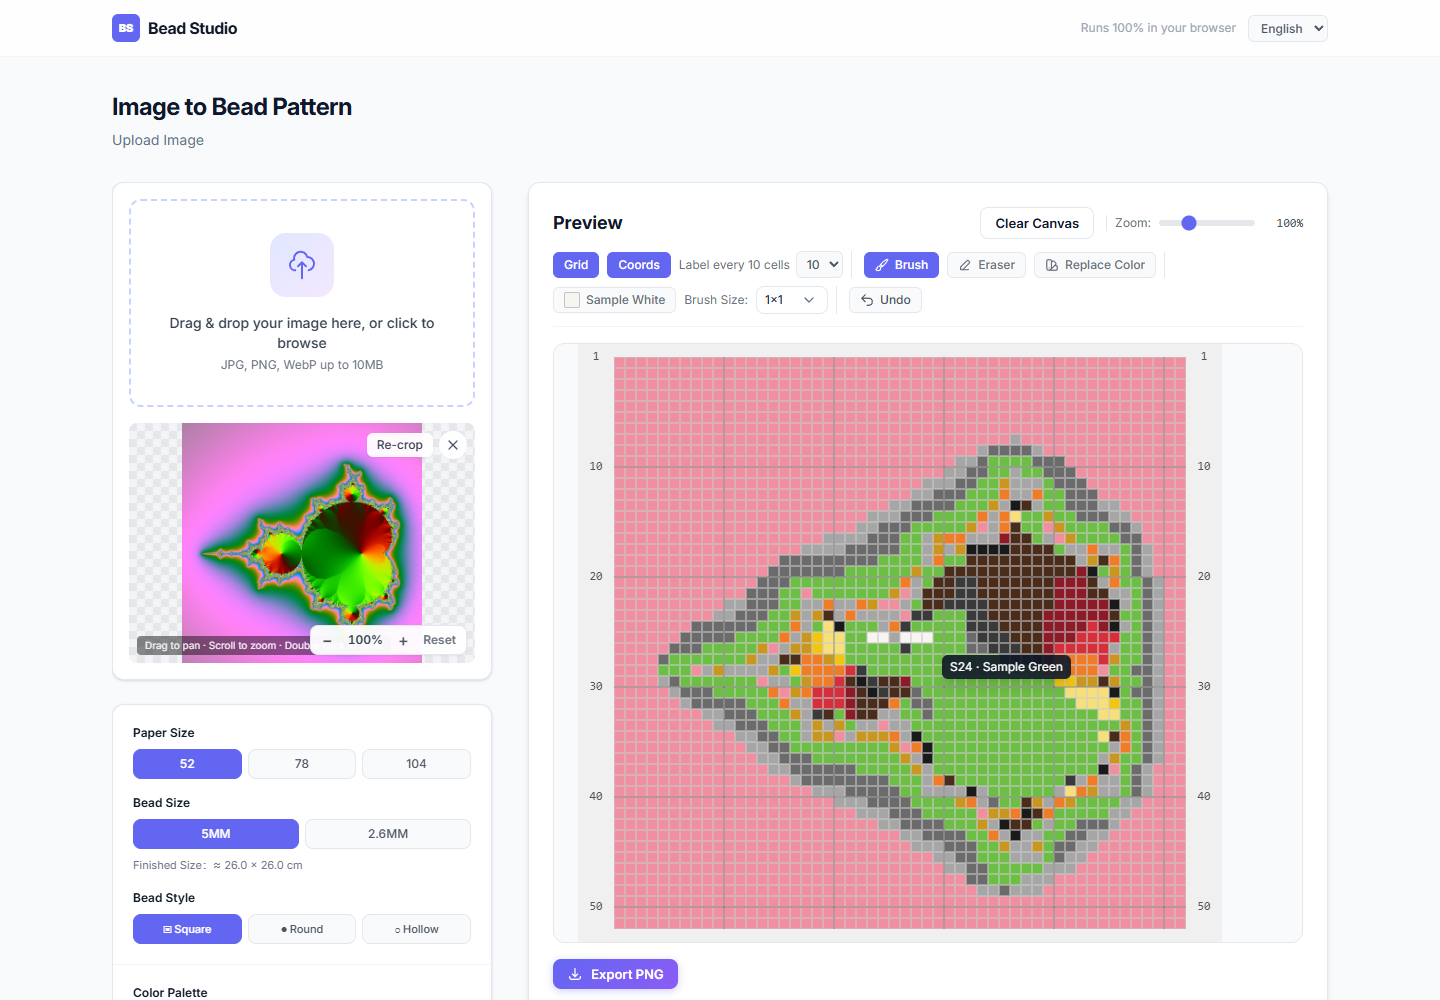
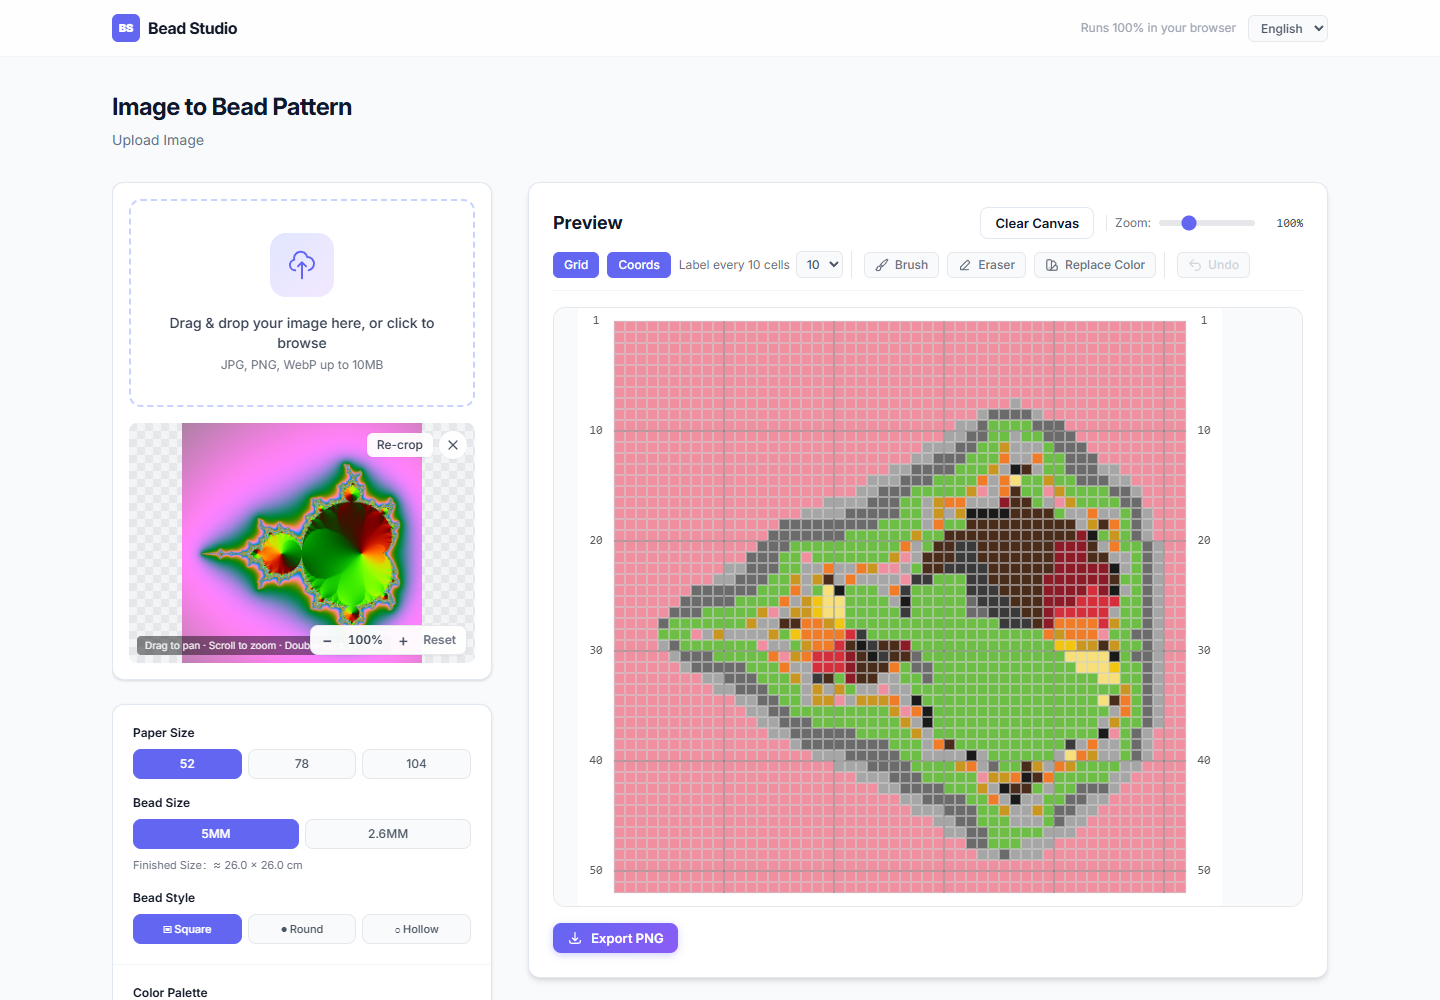
feat(canvas): white canvas + per-cell fine grid (synced from PerlerHome 5621e42)
- CANVAS_BG (#FFFFFF) replaces the old #F0F0F0 backdrop: empty cells read as paper,
  and hollow-round holes now punch through instead of being painted gray
- createBeadCanvas gains an optional background (null = transparent) so the preview
  can draw the fine grid underneath the beads
- preview draws one batched path for the per-cell grid (>=3px cells, 0.14 alpha)
- export uses the same white background

Changed region(s): [[0.375, 0.248, 0.8438, 0.992], [0.8125, 0.248, 0.875, 0.279]]

diff --git a/utils/bead-algorithm.ts b/utils/bead-algorithm.ts
@@ -1,5 +1,5 @@
 import type { BeadColor } from '~/types'
-import { BEAD_CRISP_GAP, BEAD_GAP_MIN_CELL, calcBeadLineMetrics } from './bead-canvas'
+import { BEAD_CRISP_GAP, BEAD_GAP_MIN_CELL, CANVAS_BG, calcBeadLineMetrics } from './bead-canvas'
 
 /**
  * 拼豆图纸转换（纯计算，与平台无关；取像素在文件末尾按 H5 / 小程序分别实现）。
@@ -3993,7 +3993,12 @@ export function createBeadCanvas(
   style: BeadStyle = 'grid-square',
   showCodes: boolean = false,
   /** 导出模式：整数像素对齐绘制，消除半像素抗锯齿造成的模糊 */
-  crisp: boolean = false
+  crisp: boolean = false,
+  /**
+   * 底色：默认白色；传 null 则背景透明（预览要把逐格细网格画在珠子下面，
+   * 由调用方自己铺底色）。
+   */
+  background: string | null = CANVAS_BG
 ): HTMLCanvasElement {
   const rows = pattern.length
   const cols = pattern[0].length
@@ -4009,9 +4014,11 @@ export function createBeadCanvas(
   // 本项目 2D 画布是 1:1 像素绘制，所以像素比传 1。
   const { gap, cellLineWidth } = calcBeadLineMetrics(cellSize, 1)
 
-  // Draw background grid
-  ctx.fillStyle = '#F0F0F0'
-  ctx.fillRect(0, 0, canvas.width, canvas.height)
+  // 铺底色（白色）：空白画布就是一张白纸；传 null 时保持透明，交给调用方铺
+  if (background) {
+    ctx.fillStyle = background
+    ctx.fillRect(0, 0, canvas.width, canvas.height)
+  }
 
   for (let y = 0; y < rows; y++) {
     for (let x = 0; x < cols; x++) {
@@ -4060,11 +4067,19 @@ export function createBeadCanvas(
         ctx.fillStyle = hexColor
         ctx.fill()
 
-        // Cut out the center hole — 用纸色填充，预览与导出一致，任何查看器都不会发黑
+        // Cut out the center hole — 用纸色填充，预览与导出一致，任何查看器都不会发黑；
+        // 透明底模式（预览）下把孔真正挖空，让下层细网格/底色透出来
         ctx.beginPath()
         ctx.arc(px + cellSize / 2, py + cellSize / 2, innerRadius, 0, Math.PI * 2)
-        ctx.fillStyle = '#F0F0F0'
-        ctx.fill()
+        if (background) {
+          ctx.fillStyle = background
+          ctx.fill()
+        } else {
+          ctx.save()
+          ctx.globalCompositeOperation = 'destination-out'
+          ctx.fill()
+          ctx.restore()
+        }
 
         // Draw inner ring border
         ctx.beginPath()

diff --git a/components/tool/BeadCanvas.vue b/components/tool/BeadCanvas.vue
@@ -60,7 +60,14 @@
 // 由页面统一改 pattern / 重算统计，保证「一个数据源」。
 import type { CSSProperties } from 'vue'
 import { createBeadCanvas, type BeadStyle } from '~/utils/bead-algorithm'
-import { drawGuideOverlay, GUIDE_MARGIN } from '~/utils/bead-canvas'
+import {
+  CANVAS_BG,
+  FINE_GRID_COLOR,
+  FINE_GRID_MIN_CELL,
+  GUIDE_MARGIN,
+  calcBeadLineMetrics,
+  drawGuideOverlay
+} from '~/utils/bead-canvas'
 import type { BeadColor } from '~/types'
 
 const props = withDefaults(defineProps<{
@@ -165,7 +172,11 @@ function render() {
   const rows = pattern.length
   const margin = props.showCoords ? GUIDE_MARGIN : 0
 
-  const beadCanvas = createBeadCanvas(pattern, props.colors, cellSize, props.beadStyle, false /* 预览不显示色号 */)
+  // 透明底：底色与逐格细网格由这里画，珠子叠在上面（网格在珠子下面，不压珠色）
+  const beadCanvas = createBeadCanvas(
+    pattern, props.colors, cellSize, props.beadStyle,
+    false /* 预览不显示色号 */, false, null /* 透明底 */
+  )
 
   const canvasW = cols * cellSize + margin * 2
   const canvasH = rows * cellSize + margin * 2
@@ -173,8 +184,29 @@ function render() {
   canvas.height = canvasH
   const ctx = canvas.getContext('2d')!
   ctx.imageSmoothingEnabled = false
-  ctx.fillStyle = '#F0F0F0'
+  ctx.fillStyle = CANVAS_BG
   ctx.fillRect(0, 0, canvasW, canvasH)
+
+  // 逐格细网格：让空格子也看得出是一个个格子（空白区域否则就是一大片白纸，没法定位要画哪格）。
+  // 一次性拼好所有线再 stroke —— 200×200 的图纸逐格 strokeRect 是 4 万次调用，涂画每帧重绘会卡。
+  if (props.showGrid && cellSize >= FINE_GRID_MIN_CELL) {
+    const { cellLineWidth } = calcBeadLineMetrics(cellSize, 1)
+    ctx.beginPath()
+    for (let i = 0; i <= cols; i++) {
+      const x = margin + i * cellSize
+      ctx.moveTo(x, margin)
+      ctx.lineTo(x, margin + rows * cellSize)
+    }
+    for (let j = 0; j <= rows; j++) {
+      const y = margin + j * cellSize
+      ctx.moveTo(margin, y)
+      ctx.lineTo(margin + cols * cellSize, y)
+    }
+    ctx.strokeStyle = FINE_GRID_COLOR
+    ctx.lineWidth = cellLineWidth
+    ctx.stroke()
+  }
+
   ctx.drawImage(beadCanvas, margin, margin)
 
   drawGuideOverlay(ctx, {

diff --git a/utils/bead-canvas.ts b/utils/bead-canvas.ts
@@ -13,6 +13,17 @@
 // dpr 参数：画布按 dpr 放大绘制（高分屏 1 格 = dpr 个物理像素）时传真实 dpr，
 // 让「1 画布像素的下限」换算成物理像素；本项目预览/导出都是 1:1 像素，传 1。
 
+/**
+ * 画布底色 / 空格子颜色：纯白。
+ * 只影响「没有珠子」的地方（珠子颜色、默认画笔色都不受影响）。
+ * 空格子靠一层「逐格细网格」勾出边界，保证空白区域也能看清一个个格子。
+ */
+export const CANVAS_BG = '#FFFFFF'
+
+/** 逐格细网格的颜色与最小可绘格子（再小就糊成灰底，不如不画） */
+export const FINE_GRID_COLOR = 'rgba(0,0,0,0.14)'
+export const FINE_GRID_MIN_CELL = 3
+
 /** 珠缝（每侧）占格子的比例 */
 export const BEAD_GAP_RATIO = 0.06
 /** 珠子描边宽度占格子的比例 */

diff --git a/utils/bead-export.ts b/utils/bead-export.ts
@@ -10,7 +10,7 @@ import {
   type BeadStyle,
   type ColorStat
 } from './bead-algorithm'
-import { drawGuideOverlay, GUIDE_MARGIN } from './bead-canvas'
+import { CANVAS_BG, drawGuideOverlay, GUIDE_MARGIN } from './bead-canvas'
 import type { BeadColor } from '~/types'
 
 /** 导出格子优先 48px（色号清晰可读），超长图纸自动缩小避免画布过大 */
@@ -167,7 +167,7 @@ export function renderExportCanvas(o: ExportPatternOptions): HTMLCanvasElement {
   exportCanvas.height = canvasH + statH
   const ctx = exportCanvas.getContext('2d')!
   ctx.imageSmoothingEnabled = false
-  ctx.fillStyle = '#F0F0F0'
+  ctx.fillStyle = CANVAS_BG
   ctx.fillRect(0, 0, canvasW, canvasH)
   ctx.drawImage(beadCanvas, guideMargin, guideMargin)
 

diff --git a/README.en.md b/README.en.md
@@ -45,7 +45,8 @@ deploy it as a static site anywhere.
 
   <img src="docs/screenshot-advanced.png" width="760" alt="Advanced parameter panel" />
 - **Editing**: 1/3/5/7-cell brush, eraser, single-cell replace, whole-color replace, undo.
-- **Guides**: 10-cell guide grid, row/column coordinates with adjustable label step, zoom.
+- **Guides**: white canvas with a per-cell fine grid (empty cells stay visible), bolder lines every
+  10 cells, row/column coordinates with adjustable label step, zoom.
 - **Statistics**: bead count per color, total beads, estimated weight, finished size in cm.
 - **Export**: PNG with printed coordinates and color codes (cell size is chosen automatically
   so codes stay readable). Example output: [`docs/export-sample.png`](docs/export-sample.png)

diff --git a/README.md b/README.md
@@ -35,7 +35,7 @@
 
   <img src="docs/screenshot-advanced.png" width="760" alt="高级参数面板" />
 - **编辑**：1/3/5/7 格画笔、橡皮擦、单格替色、整色替换、撤销。
-- **辅助**：每 10 格参考网格、四周行列坐标（步长可调）、缩放。
+- **辅助**：白色画布 + 逐格细网格（空格子也看得出边界，便于定位）、每 10 格加粗参考线、四周行列坐标（步长可调）、缩放。
 - **统计**：各色号颗数、总颗数、估重、成品尺寸（cm）。
 - **导出**：PNG 自带坐标与色号（导出格尺寸自动选择，保证色号可读）。示例输出：[`docs/export-sample.png`](docs/export-sample.png)（52 列，2568×2732 px）。
 
